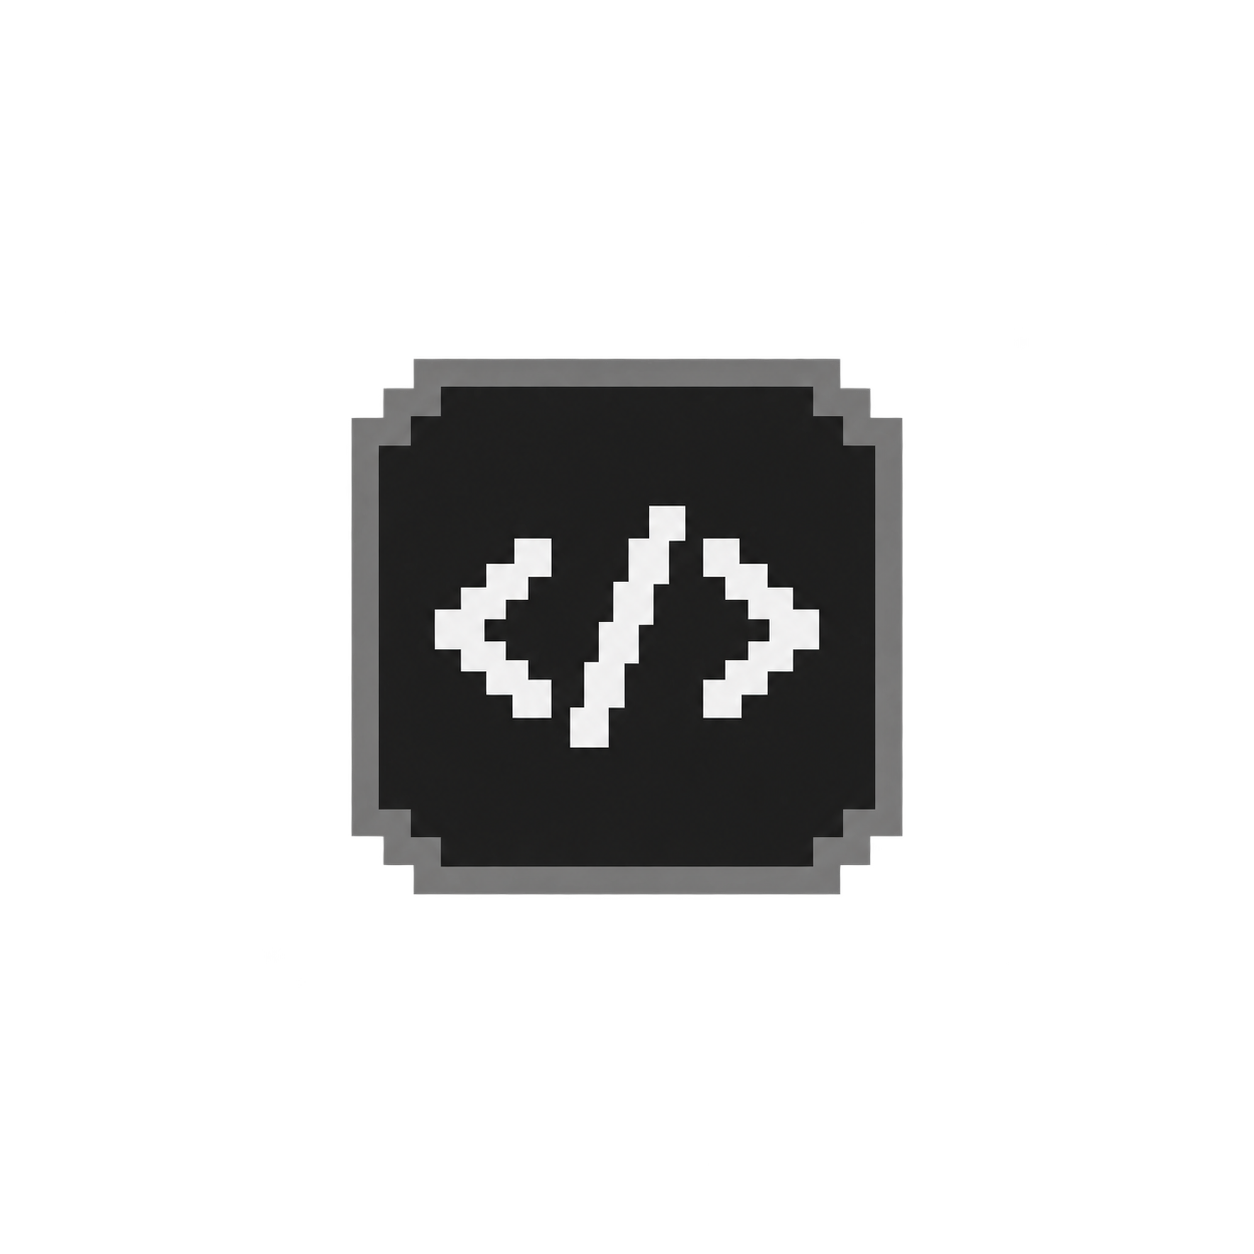
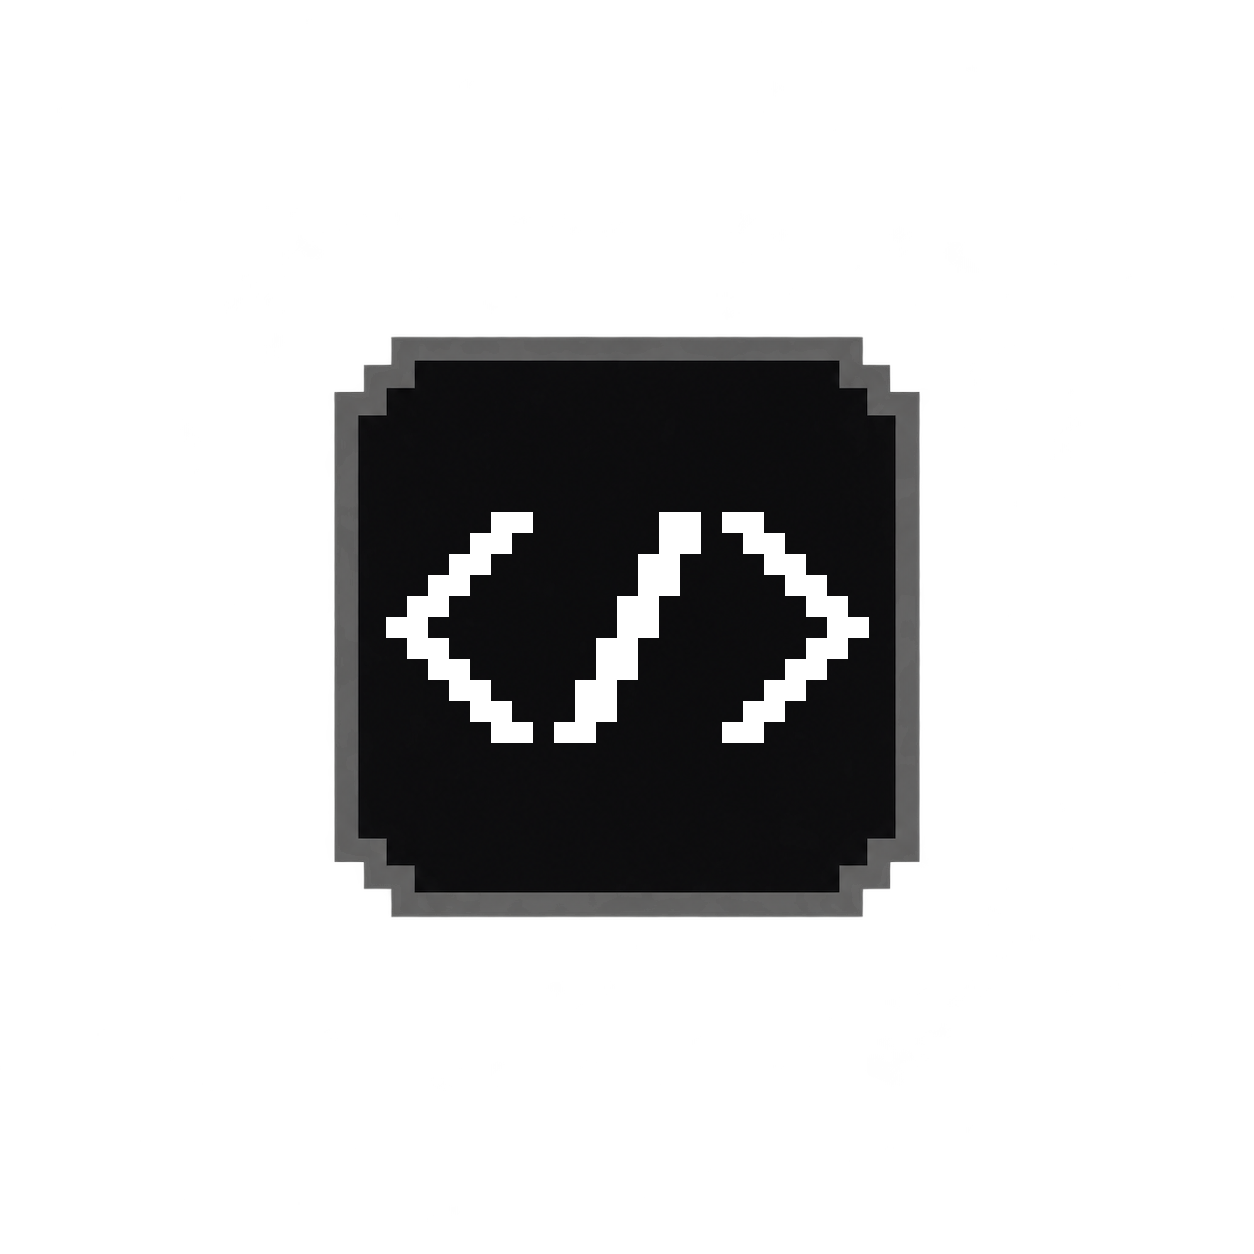
Refresh profile badge artwork

Changed region(s): [[0.2488, 0.2488, 0.7464, 0.7464]]

diff --git a/404.html b/404.html
@@ -1,1 +1,1 @@
-<!doctype html><html lang="en"><head><meta http-equiv="Content-Security-Policy" content="default-src 'self'; script-src 'self'; style-src 'unsafe-inline'; connect-src 'self' https://wlng.lol; object-src 'none'; base-uri 'none'; form-action 'none'"><meta charset="utf-8"><meta name="viewport" content="width=device-width,initial-scale=1,viewport-fit=cover"><meta name="robots" content="noindex,follow"><title>Profile not found — WLNG</title><meta name="description" content="come and see by yourself"><meta property="og:description" content="come and see by yourself"><meta property="og:title" content="WLNG"><link rel="icon" href="/favicon.ico?v=20261106"><link rel="canonical" href="https://wlng.lol/user/"><style>body{margin:0;background:#0e0e10;color:#f1f1f3;font:15px/1.8 system-ui,sans-serif}a{color:inherit;text-decoration:none}a:focus-visible{outline:2px solid #63afff;outline-offset:5px}header{padding:23px 6vw;border-bottom:1px solid #252529;display:flex;justify-content:space-between;align-items:center}.brand{font-weight:800;font-size:25px;letter-spacing:-1px}.back{font-size:12px;color:#a4a4ad}main{max-width:650px;margin:7vh 0 0 6vw;padding:24px 0;max-width:min(650px,88vw)}.profile-top{position:relative;isolation:isolate;display:flex;gap:22px;align-items:center;background:#19191e;border:1px solid #35353e;padding:26px}.profile-top:before{content:"";position:absolute;z-index:-1;inset:8px -8px -8px 8px;background:#111116;border:1px solid #30303b;transform:rotate(-1deg)}h1{font-size:30px;margin:0;overflow-wrap:anywhere}.badge{width:65px;height:65px;border-radius:50%;background:#287bce;display:flex;align-items:center;justify-content:center;font-size:23px;font-weight:700;flex-shrink:0}.badge.yellow{background:#e5ba37;color:#211b08}.badge.red{background:#dc4958}.badge.black{background:#030406;border:1px solid #666}small{color:#9999a4}.progress{height:24px;background:#252529;position:relative;margin:30px 0;border:1px solid #34343b;border-radius:2px;overflow:hidden}.fill{height:100%;background:var(--skin,#2567a8)}.progress-label{position:absolute;inset:0;display:flex;align-items:center;justify-content:center;font-size:11px;color:white;text-shadow:0 1px 2px #000,0 0 3px #000}.description{white-space:pre-wrap;overflow-wrap:anywhere;color:#c0c0c8;margin-top:35px}footer{margin-top:60px;color:#777783;font-size:12px}@media(max-width:500px){main{margin:5vh 6vw;padding:0}h1{font-size:24px}.badge{width:52px;height:52px;font-size:19px}}@font-face{font-family:WLNGPixel;src:url('/assets/fonts/PressStart2P-Regular.ttf') format('truetype');font-display:swap}.level-icon{position:relative;isolation:isolate;background:transparent!important;border:0!important;box-shadow:none!important;box-sizing:border-box;padding-top:2px;color:white;font-family:WLNGPixel,monospace!important;font-weight:400!important;font-size:9px!important;line-height:1;letter-spacing:-.07em;text-shadow:1px 1px 0 #1a071a}.level-icon:before{content:"";position:absolute;inset:0;z-index:-1;background:var(--badge-image) center/135% 135% no-repeat;image-rendering:pixelated}.level-icon.badge-blue{--badge-image:url('/assets/badges/blue.png')}.level-icon.badge-gold{--badge-image:url('/assets/badges/gold.png');color:#2a1600;text-shadow:none}.level-icon.badge-red{--badge-image:url('/assets/badges/red.png')}.level-icon.badge-black{--badge-image:url('/assets/badges/black.png')}.level-icon.badge-star-red{--badge-image:url('/assets/badges/star-red.png')}.level-icon.badge-star-green{--badge-image:url('/assets/badges/star-green.png')}.level-icon[data-digits="3"]{font-size:7px!important}.level-icon[data-digits="4"]{font-size:6px!important}.level-icon[data-digits="5"]{font-size:5px!important}.skin-badge-preview.level-icon{font-size:12px!important}.skin-badge-preview.level-icon[data-digits="3"]{font-size:10px!important}.skin-badge-preview.level-icon[data-digits="4"]{font-size:8px!important}.skin-badge-preview.level-icon[data-digits="5"]{font-size:7px!important}.badge.level-icon{font-size:15px!important}.badge.level-icon[data-digits="3"]{font-size:12px!important}.badge.level-icon[data-digits="4"]{font-size:10px!important}.badge.level-icon[data-digits="5"]{font-size:8px!important}</style><script type="module" src="/profile-page.js?v=20261109-api1"></script></head><body><header><a class="brand" href="https://wlng.lol/">WLNG.</a><a class="back" href="https://wlng.lol/">Back to stream hub ↗</a></header><main style="--skin:#2567a8"><h1>Profile not found</h1><p>This profile doesn’t exist or is private.</p></main></body></html>
+<!doctype html><html lang="en"><head><meta http-equiv="Content-Security-Policy" content="default-src 'self'; script-src 'self'; style-src 'unsafe-inline'; connect-src 'self' https://wlng.lol; object-src 'none'; base-uri 'none'; form-action 'none'"><meta charset="utf-8"><meta name="viewport" content="width=device-width,initial-scale=1,viewport-fit=cover"><meta name="robots" content="noindex,follow"><title>Profile not found — WLNG</title><meta name="description" content="come and see by yourself"><meta property="og:description" content="come and see by yourself"><meta property="og:title" content="WLNG"><link rel="icon" href="/favicon.ico?v=20261106"><link rel="canonical" href="https://wlng.lol/user/"><style>body{margin:0;background:#0e0e10;color:#f1f1f3;font:15px/1.8 system-ui,sans-serif}a{color:inherit;text-decoration:none}a:focus-visible{outline:2px solid #63afff;outline-offset:5px}header{padding:23px 6vw;border-bottom:1px solid #252529;display:flex;justify-content:space-between;align-items:center}.brand{font-weight:800;font-size:25px;letter-spacing:-1px}.back{font-size:12px;color:#a4a4ad}main{max-width:650px;margin:7vh 0 0 6vw;padding:24px 0;max-width:min(650px,88vw)}.profile-top{position:relative;isolation:isolate;display:flex;gap:22px;align-items:center;background:#19191e;border:1px solid #35353e;padding:26px}.profile-top:before{content:"";position:absolute;z-index:-1;inset:8px -8px -8px 8px;background:#111116;border:1px solid #30303b;transform:rotate(-1deg)}h1{font-size:30px;margin:0;overflow-wrap:anywhere}.badge{width:65px;height:65px;border-radius:50%;background:#287bce;display:flex;align-items:center;justify-content:center;font-size:23px;font-weight:700;flex-shrink:0}.badge.yellow{background:#e5ba37;color:#211b08}.badge.red{background:#dc4958}.badge.black{background:#030406;border:1px solid #666}small{color:#9999a4}.progress{height:24px;background:#252529;position:relative;margin:30px 0;border:1px solid #34343b;border-radius:2px;overflow:hidden}.fill{height:100%;background:var(--skin,#2567a8)}.progress-label{position:absolute;inset:0;display:flex;align-items:center;justify-content:center;font-size:11px;color:white;text-shadow:0 1px 2px #000,0 0 3px #000}.description{white-space:pre-wrap;overflow-wrap:anywhere;color:#c0c0c8;margin-top:35px}footer{margin-top:60px;color:#777783;font-size:12px}@media(max-width:500px){main{margin:5vh 6vw;padding:0}h1{font-size:24px}.badge{width:52px;height:52px;font-size:19px}}@font-face{font-family:WLNGPixel;src:url('/assets/fonts/PressStart2P-Regular.ttf') format('truetype');font-display:swap}.level-icon{position:relative;isolation:isolate;background:transparent!important;border:0!important;box-shadow:none!important;box-sizing:border-box;padding-top:2px;color:white;font-family:WLNGPixel,monospace!important;font-weight:400!important;font-size:9px!important;line-height:1;letter-spacing:-.07em;text-shadow:1px 1px 0 #1a071a}.level-icon:before{content:"";position:absolute;inset:0;z-index:-1;background:var(--badge-image) center/135% 135% no-repeat;image-rendering:pixelated}.level-icon.badge-blue{--badge-image:url('/assets/badges/blue.png')}.level-icon.badge-gold{--badge-image:url('/assets/badges/gold.png');color:#2a1600;text-shadow:none}.level-icon.badge-red{--badge-image:url('/assets/badges/red.png')}.level-icon.badge-black{--badge-image:url('/assets/badges/black.png')}.level-icon.badge-star-red{--badge-image:url('/assets/badges/star-red.png')}.level-icon.badge-star-green{--badge-image:url('/assets/badges/star-green.png')}.level-icon[data-digits="3"]{font-size:7px!important}.level-icon[data-digits="4"]{font-size:6px!important}.level-icon[data-digits="5"]{font-size:5px!important}.skin-badge-preview.level-icon{font-size:12px!important}.skin-badge-preview.level-icon[data-digits="3"]{font-size:10px!important}.skin-badge-preview.level-icon[data-digits="4"]{font-size:8px!important}.skin-badge-preview.level-icon[data-digits="5"]{font-size:7px!important}.badge.level-icon{font-size:15px!important}.badge.level-icon[data-digits="3"]{font-size:12px!important}.badge.level-icon[data-digits="4"]{font-size:10px!important}.badge.level-icon[data-digits="5"]{font-size:8px!important}</style><script type="module" src="/profile-page.js?v=20261111-badges1"></script></head><body><header><a class="brand" href="https://wlng.lol/">WLNG.</a><a class="back" href="https://wlng.lol/">Back to stream hub ↗</a></header><main style="--skin:#2567a8"><h1>Profile not found</h1><p>This profile doesn’t exist or is private.</p></main></body></html>

diff --git a/skins.js b/skins.js
@@ -16,8 +16,8 @@ import {accountState} from './account-state.mjs';
    button.addEventListener('click',()=>selectSection(button));
    button.addEventListener('keydown',event=>{let next;if(event.key==='ArrowRight')next=(index+1)%customizeTabs.length;else if(event.key==='ArrowLeft')next=(index+customizeTabs.length-1)%customizeTabs.length;else if(event.key==='Home')next=0;else if(event.key==='End')next=customizeTabs.length-1;else return;event.preventDefault();selectSection(customizeTabs[next]);customizeTabs[next].focus();});
  });
- function drawIcons(){const list=document.querySelector('#profile-icon-options');list.replaceChildren();for(const [id,name]of profileIcons){const button=document.createElement('button');button.type='button';button.className='skin-card';button.disabled=busy||!user||!loaded;button.setAttribute('aria-pressed',String(draft.profileIcon===id));button.textContent=name;if(id!=='none'){const img=document.createElement('img');img.src='/assets/profile-icons/'+id+'.png';img.alt='';button.append(img);}button.addEventListener('click',()=>{draft={...draft,profileIcon:id};previewing=true;draw();});list.append(button);}}
- function drawAwards(){const list=document.querySelector('#profile-award-options');list.replaceChildren();for(const [id,name]of profileAwards){if(!ownedAwards.includes(id))continue;const button=document.createElement('button');button.type='button';button.className='skin-card';const selected=draft.profileBadges.includes(id);button.disabled=busy||!loaded||(!selected&&draft.profileBadges.length>=10);button.setAttribute('aria-pressed',String(selected));const img=document.createElement('img');img.src='/assets/profile-badges/'+id+'.png';img.alt=name;const label=document.createElement('strong');label.textContent=name;const note=document.createElement('small');note.textContent=selected?'Selected':'Show on profile';button.append(img,label,note);button.addEventListener('click',()=>{draft={...draft,profileBadges:selected?draft.profileBadges.filter(x=>x!==id):[...draft.profileBadges,id]};previewing=true;draw();});list.append(button);}if(!list.children.length)list.textContent='No profile badges owned yet.';}
+ function drawIcons(){const list=document.querySelector('#profile-icon-options');list.replaceChildren();for(const [id,name]of profileIcons){const button=document.createElement('button');button.type='button';button.className='skin-card';button.disabled=busy||!user||!loaded;button.setAttribute('aria-pressed',String(draft.profileIcon===id));button.textContent=name;if(id!=='none'){const img=document.createElement('img');img.src='/assets/profile-icons/'+id+'.png?v=20261111-badges1';img.alt='';button.append(img);}button.addEventListener('click',()=>{draft={...draft,profileIcon:id};previewing=true;draw();});list.append(button);}}
+ function drawAwards(){const list=document.querySelector('#profile-award-options');list.replaceChildren();for(const [id,name]of profileAwards){if(!ownedAwards.includes(id))continue;const button=document.createElement('button');button.type='button';button.className='skin-card';const selected=draft.profileBadges.includes(id);button.disabled=busy||!loaded||(!selected&&draft.profileBadges.length>=10);button.setAttribute('aria-pressed',String(selected));const img=document.createElement('img');img.src='/assets/profile-badges/'+id+'.png?v=20261111-badges1';img.alt=name;const label=document.createElement('strong');label.textContent=name;const note=document.createElement('small');note.textContent=selected?'Selected':'Show on profile';button.append(img,label,note);button.addEventListener('click',()=>{draft={...draft,profileBadges:selected?draft.profileBadges.filter(x=>x!==id):[...draft.profileBadges,id]};previewing=true;draw();});list.append(button);}if(!list.children.length)list.textContent='No profile badges owned yet.';}
  function draw(){drawAwards();group('#profile-theme-options',themeSkins,'profileTheme');group('#profile-level-options',badgeSkins,'badge');drawIcons();syncSavePanel();group('#skin-options',barSkins,'skin');group('#theme-skin-options',themeSkins,'theme');group('#badge-skin-options',badgeSkins,'badge');applyButton.disabled=!user||!loaded||busy||!dirty();revert.disabled=!dirty()||busy;}
  function reset(){draft={...equipped};previewing=false;paint();draw();}
  applyButton.addEventListener('click',async()=>{if(applyButton.disabled)return;const input={};for(const field of ['skin','theme','badge','profileTheme','profileIcon','profileBadges'])if(JSON.stringify(draft[field])!==JSON.stringify(equipped[field]))input[field]=draft[field];const ownUser=user;try{await accountState.saveCosmetics(input);if(user===ownUser){reset();status.textContent=accountState.view().error||'Appearance saved.';}}catch(e){if(user===ownUser)status.textContent=e.message;}});

diff --git a/profile-page.js b/profile-page.js
@@ -1,4 +1,4 @@
-import { skinPaint, badgeStyle, profileThemeCss, profileAwards, awardCss, profileIcons, profileIconCss, profileResponsiveCss } from './cosmetics.mjs?v=20261108-mobile1';
+import { skinPaint, badgeStyle, profileThemeCss, profileAwards, awardCss, profileIcons, profileIconCss, profileResponsiveCss } from './cosmetics.mjs?v=20261111-badges1';
 const view=document.querySelector('main');
 const match=/^\/user\/([a-z0-9_]{3,24})\/?$/i.exec(location.pathname);
 if(match){
@@ -18,7 +18,7 @@ if(match){
       const title=document.createElement('div'),name=document.createElement('h1'),level=document.createElement('small');name.textContent='@'+p.username;level.textContent='Level '+p.level;title.append(name,level);top.append(badge,title);
       const bar=document.createElement('div');bar.className='progress';bar.setAttribute('role','progressbar');bar.setAttribute('aria-label','XP for this level');bar.setAttribute('aria-valuenow',p.xp);bar.setAttribute('aria-valuemax',p.required);bar.setAttribute('aria-valuemin','0');
       const fill=document.createElement('div');fill.className='fill';fill.style.width=Math.max(0,Math.min(100,p.xp/p.required*100))+'%';const label=document.createElement('span');label.className='progress-label';label.textContent=p.xp.toFixed(1)+' / '+p.required+' XP';bar.append(fill,label);
-      const awards=document.createElement('section');awards.className='profile-awards';awards.setAttribute('aria-label','Profile badges');for(const id of (Array.isArray(p.profileBadges)?p.profileBadges:[]).slice(0,10)){const entry=profileAwards.find(x=>x[0]===id);if(!entry)continue;const img=document.createElement('img');img.className='profile-award';img.src='/assets/profile-badges/'+id+'.png';img.alt='';const item=document.createElement('button');item.type='button';item.className='profile-award-item';item.setAttribute('aria-label',entry[1]);item.setAttribute('aria-describedby','award-tip-'+id);const tip=document.createElement('span');tip.className='award-tooltip';tip.id='award-tip-'+id;tip.setAttribute('role','tooltip');tip.textContent=entry[2];item.append(img,tip);awards.append(item);}view.replaceChildren(awards,top,bar);if(p.description){const bio=document.createElement('p');bio.className='description';bio.textContent=p.description;view.append(bio);}
+      const awards=document.createElement('section');awards.className='profile-awards';awards.setAttribute('aria-label','Profile badges');for(const id of (Array.isArray(p.profileBadges)?p.profileBadges:[]).slice(0,10)){const entry=profileAwards.find(x=>x[0]===id);if(!entry)continue;const img=document.createElement('img');img.className='profile-award';img.src='/assets/profile-badges/'+id+'.png?v=20261111-badges1';img.alt='';const item=document.createElement('button');item.type='button';item.className='profile-award-item';item.setAttribute('aria-label',entry[1]);item.setAttribute('aria-describedby','award-tip-'+id);const tip=document.createElement('span');tip.className='award-tooltip';tip.id='award-tip-'+id;tip.setAttribute('role','tooltip');tip.textContent=entry[2];item.append(img,tip);awards.append(item);}view.replaceChildren(awards,top,bar);if(p.description){const bio=document.createElement('p');bio.className='description';bio.textContent=p.description;view.append(bio);}
       
     }catch(error){view.replaceChildren(Object.assign(document.createElement('h1'),{textContent:'Profile unavailable'}),Object.assign(document.createElement('p'),{textContent:error.message}));}
   })();

diff --git a/index.html b/index.html
@@ -5,8 +5,8 @@
 <meta name="description" content="come and see by yourself"><meta property="og:description" content="come and see by yourself"><meta property="og:title" content="WLNG"><link rel="icon" href="/favicon.ico?v=20261106"><meta name="referrer" content="strict-origin-when-cross-origin">
 <title>WLNG — Stream hub</title>
 <link rel="preconnect" href="https://fonts.googleapis.com"><link rel="preconnect" href="https://fonts.gstatic.com" crossorigin><link href="https://fonts.googleapis.com/css2?family=DM+Sans:wght@400;500;600;700&family=Space+Grotesk:wght@500;600;700&display=swap" rel="stylesheet">
-<link rel="stylesheet" href="styles.css?v=20261105-pipfix1"><link rel="stylesheet" href="themes.css?v=20261107-agencynav2"><link rel="stylesheet" href="watch.css?v=20261108-sectiontabs1"><link rel="stylesheet" href="mobile.css?v=20261108-discord1"><script defer src="config.js?v=20261109-api1"></script><script type="module" src="app.js?v=20261109-multi1"></script><script defer src="search-motion.js?v=20261105-pipfix1"></script><script type="module" src="auth.js?v=20261108-sectiontabs1"></script><script type="module" src="xp.js?v=20261109-refill2"></script><script type="module" src="account.js?v=20261105-pipfix1"></script>
-<script type="module" src="skins.js?v=20261108-mobile1"></script><link rel="stylesheet" href="multiview.css?v=20261109-expand4"><script type="module" src="multiview.js?v=20261109-expand4"></script></head>
+<link rel="stylesheet" href="styles.css?v=20261105-pipfix1"><link rel="stylesheet" href="themes.css?v=20261107-agencynav2"><link rel="stylesheet" href="watch.css?v=20261111-badges1"><link rel="stylesheet" href="mobile.css?v=20261108-discord1"><script defer src="config.js?v=20261109-api1"></script><script type="module" src="app.js?v=20261109-multi1"></script><script defer src="search-motion.js?v=20261105-pipfix1"></script><script type="module" src="auth.js?v=20261108-sectiontabs1"></script><script type="module" src="xp.js?v=20261109-refill2"></script><script type="module" src="account.js?v=20261105-pipfix1"></script>
+<script type="module" src="skins.js?v=20261111-badges1"></script><link rel="stylesheet" href="multiview.css?v=20261109-expand4"><script type="module" src="multiview.js?v=20261109-expand4"></script></head>
 <body>
 <svg class="icon-library" xmlns="http://www.w3.org/2000/svg" aria-hidden="true"><defs>
 <!-- Lucide icons: official lucide-icons/lucide sources; license: assets/icons/LICENSE -->

diff --git a/watch.css b/watch.css
@@ -105,7 +105,7 @@ body:has(dialog[open]){overflow:hidden}
 
 .profile-awards:empty{display:none}
 
-.profile-award[src$="/friend.png"],.award-options img[src$="/friend.png"]{transform:scale(1.12);clip-path:inset(8%)}
+
 
 .customize-tabs{display:flex;gap:26px;position:sticky;top:-22px;padding:12px 0 0;margin-bottom:24px;border-bottom:1px solid var(--border);background:var(--surface);z-index:2}.customize-tab{appearance:none;position:relative;flex-shrink:0;border:0;border-radius:0;background:none;color:var(--muted);font-size:13px;font-weight:600;padding:12px 0 17px;transition:color 180ms ease}.customize-tab:hover{color:var(--text)}.customize-tab.selected{color:var(--accent-strong)}.customize-tab.selected:after{content:"";position:absolute;inset:auto 0 -1px;height:2px;background:var(--accent)}.customize-tab:focus-visible{outline:2px solid var(--accent);outline-offset:3px}@media(max-width:480px){.customize-tabs{gap:20px}.customize-tab{font-size:12px}}#customize-skins[hidden],#customize-profile[hidden]{display:none}#profile-theme-options,#profile-icon-options,#profile-level-options{display:grid;grid-template-columns:repeat(auto-fit,minmax(180px,1fr));gap:12px;margin:20px 0}#profile-theme-options .skin-preview{width:48px;height:48px;border-radius:50%;background:var(--preview)}#profile-theme-options .skin-preview:before,#profile-theme-options .skin-preview:after{display:none}#profile-icon-options img{width:100%;height:90px;object-fit:contain}
 
